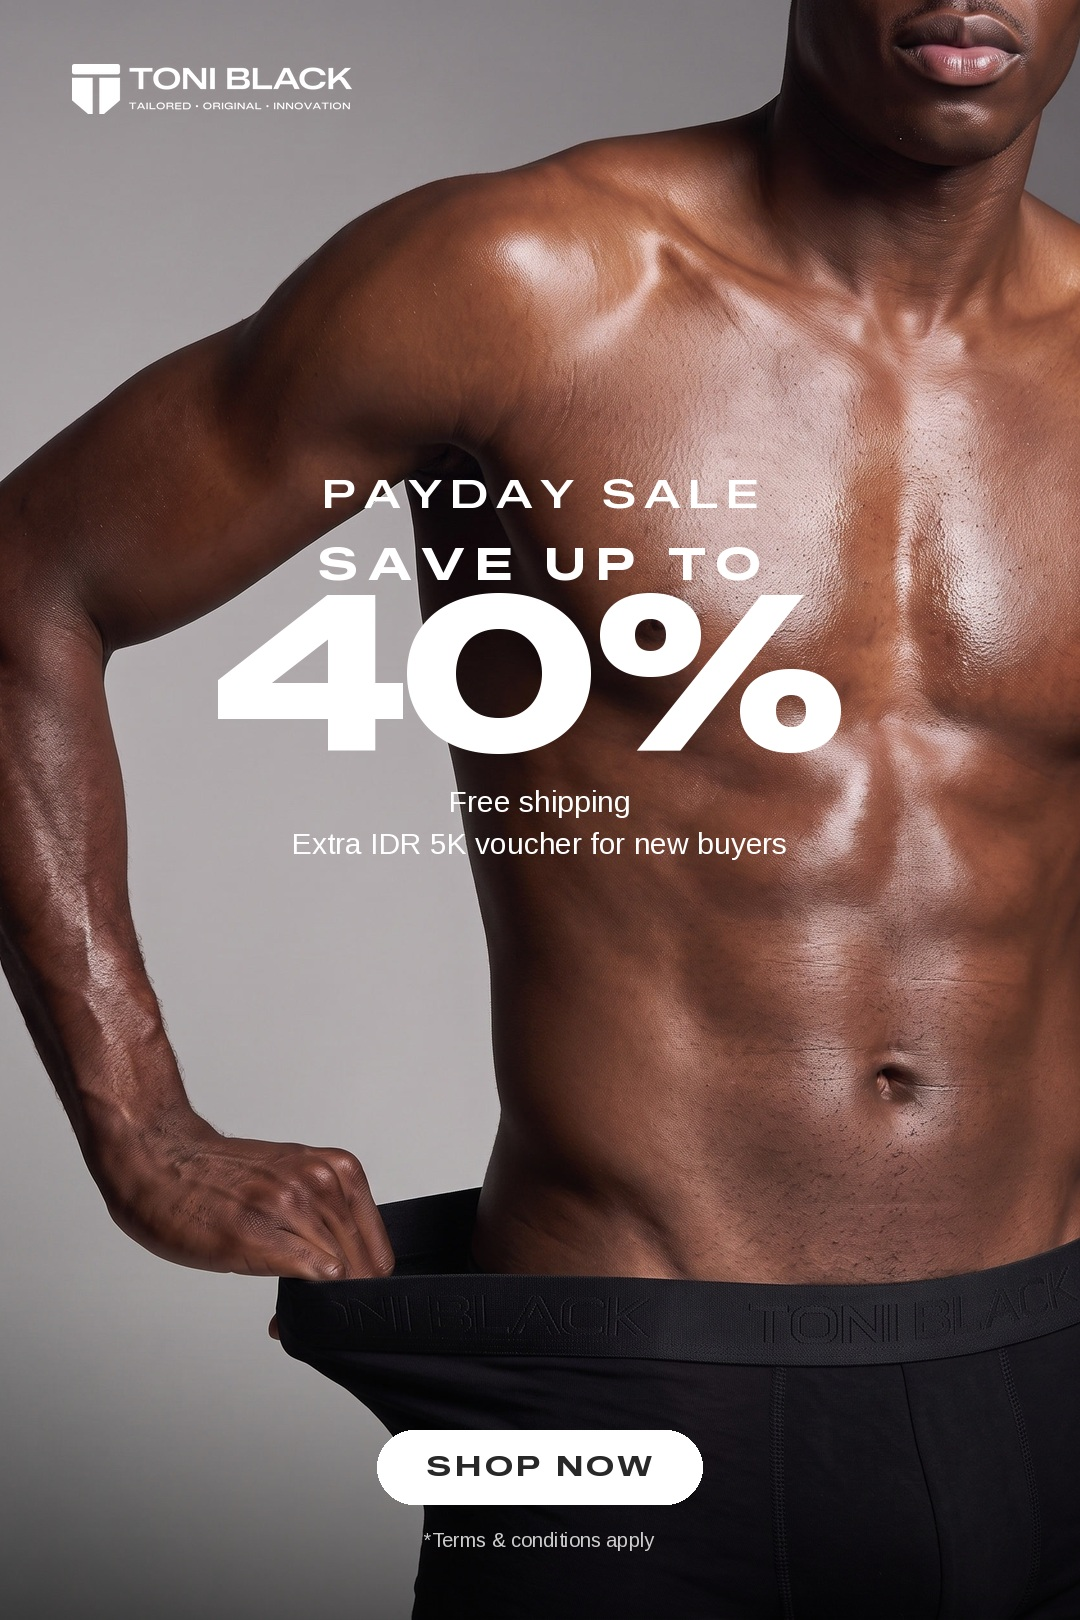
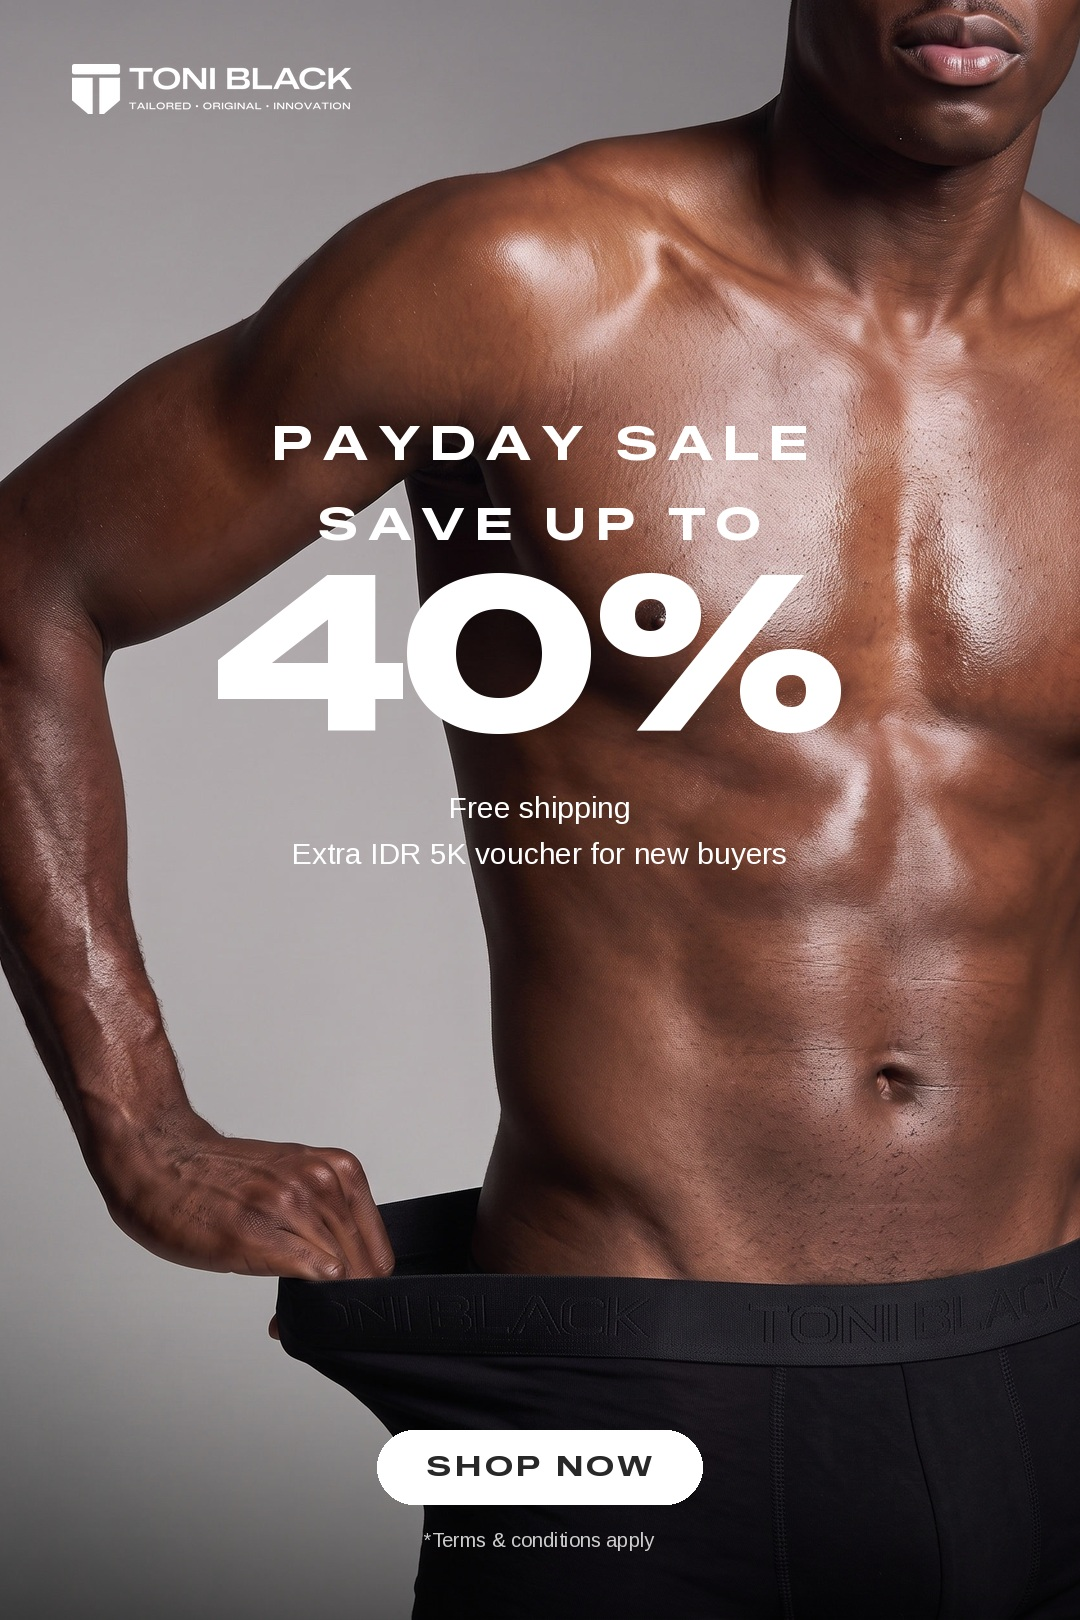
Payday 9.9-layout variant: two headline lines, leading opened
Claude-Session: https://claude.ai/code/session_01D9RBu3wL2qzNxzBzcGFuRs

Changed region(s): [[0.1833, 0.2469, 0.7944, 0.5556], [0.3056, 0.4938, 0.3361, 0.5556]]

diff --git a/banner-payday-toni-black/scripts/compose_9.9_layout.py b/banner-payday-toni-black/scripts/compose_9.9_layout.py
@@ -32,18 +32,18 @@ def build(photo_path,out_path,k=1.0,bigw=640,hero_y=0.30):
     logo=make_logo(color=WHITE,scale=8); lw=g(280); logo=logo.resize((lw,int(logo.height*lw/logo.width)),Image.LANCZOS)
     canvas.paste(logo,(M,g(64)),logo)
     # hero lockup, centred on the chest
-    f_eye=font("ZalandoSansExpanded-SemiBold.ttf",40)
+    f_eye=font("ZalandoSansExpanded-Bold.ttf",48)
     f_save=font("ZalandoSansExpanded-Bold.ttf",46)
     f_big=fit_font(d,"40%","ZalandoSansExpanded-Black.ttf",g(bigw),track=g(-8))
     y=int(H*hero_y)
-    w=tracked_w(d,"PAYDAY SALE",f_eye,g(8)); tracked(d,((W-w)//2,y),"PAYDAY SALE",f_eye,WHITE,track=g(8)); y+=g(40+26)
-    w=tracked_w(d,"SAVE UP TO",f_save,g(10)); tracked(d,((W-w)//2,y),"SAVE UP TO",f_save,WHITE,track=g(10)); y+=g(46+12)
+    w=tracked_w(d,"PAYDAY SALE",f_eye,g(10)); tracked(d,((W-w)//2,y),"PAYDAY SALE",f_eye,WHITE,track=g(10)); y+=g(48+34)
+    w=tracked_w(d,"SAVE UP TO",f_save,g(10)); tracked(d,((W-w)//2,y),"SAVE UP TO",f_save,WHITE,track=g(10)); y+=g(48+30)
     bb=d.textbbox((0,0),"40%",font=f_big); tracked(d,((W-(bb[2]-bb[0]))//2-bb[0],y-bb[1]),"40%",f_big,WHITE,track=g(-8))
-    y+= (bb[3]-bb[1]) + g(30)
+    y+= (bb[3]-bb[1]) + g(56)
     # benefits directly under the hero, still one centred block
     f_ben=font("Arimo-Regular.ttf",30); f_cta=font("ZalandoSansExpanded-Bold.ttf",28); f_tc=font("Arimo-Regular.ttf",20)
     for t in ["Free shipping","Extra IDR 5K voucher for new buyers"]:
-        d.text(((W-d.textlength(t,font=f_ben))//2,y),t,font=f_ben,fill=WHITE); y+=g(30+12)
+        d.text(((W-d.textlength(t,font=f_ben))//2,y),t,font=f_ben,fill=WHITE); y+=g(30+16)
     # CTA alone at the bottom centre, below the waistband
     cw=int(tracked_w(d,"SHOP NOW",f_cta,g(4)))+2*g(50); ch=g(74)
     yt=H-M-g(20); yb=yt-g(24)-ch

diff --git a/banner-payday-toni-black/README.md b/banner-payday-toni-black/README.md
@@ -23,4 +23,4 @@ Three groups, three places, each on its own field; the gaps between groups are m
 2. `scripts/compose.py PHOTO OUT [scale] [hero_y] [bigw]` (final: `1 0.235 500`, `2 0.235 500`). No grade.
 
 ## Variant: 9.9 layout (`variant-9.9-layout/`)
-The 9.9 banner photo and layout with the eyebrow changed from `9.9 SALE` to `PAYDAY SALE` and enlarged (Zalando SemiBold 40 instead of 26, tracked). Nothing else changed, so the offer still reads `40%`. `scripts/compose_9.9_layout.py PHOTO OUT [scale] [hero_y]` (final: `1 0.29`, `2 0.29`).
+The 9.9 banner photo and layout with the eyebrow changed from `9.9 SALE` to `PAYDAY SALE` and set as a headline line at the same level as `SAVE UP TO` (both Zalando Bold 48, tracked 10), `40%` the dominant line. Leading opened: 34 px after `PAYDAY SALE`, 30 after `SAVE UP TO`, 56 after `40%` before the benefits, 16 between benefit lines. Offer unchanged at `40%`. `scripts/compose_9.9_layout.py PHOTO OUT [scale] [hero_y]` (final: `1 0.255`, `2 0.255`).
